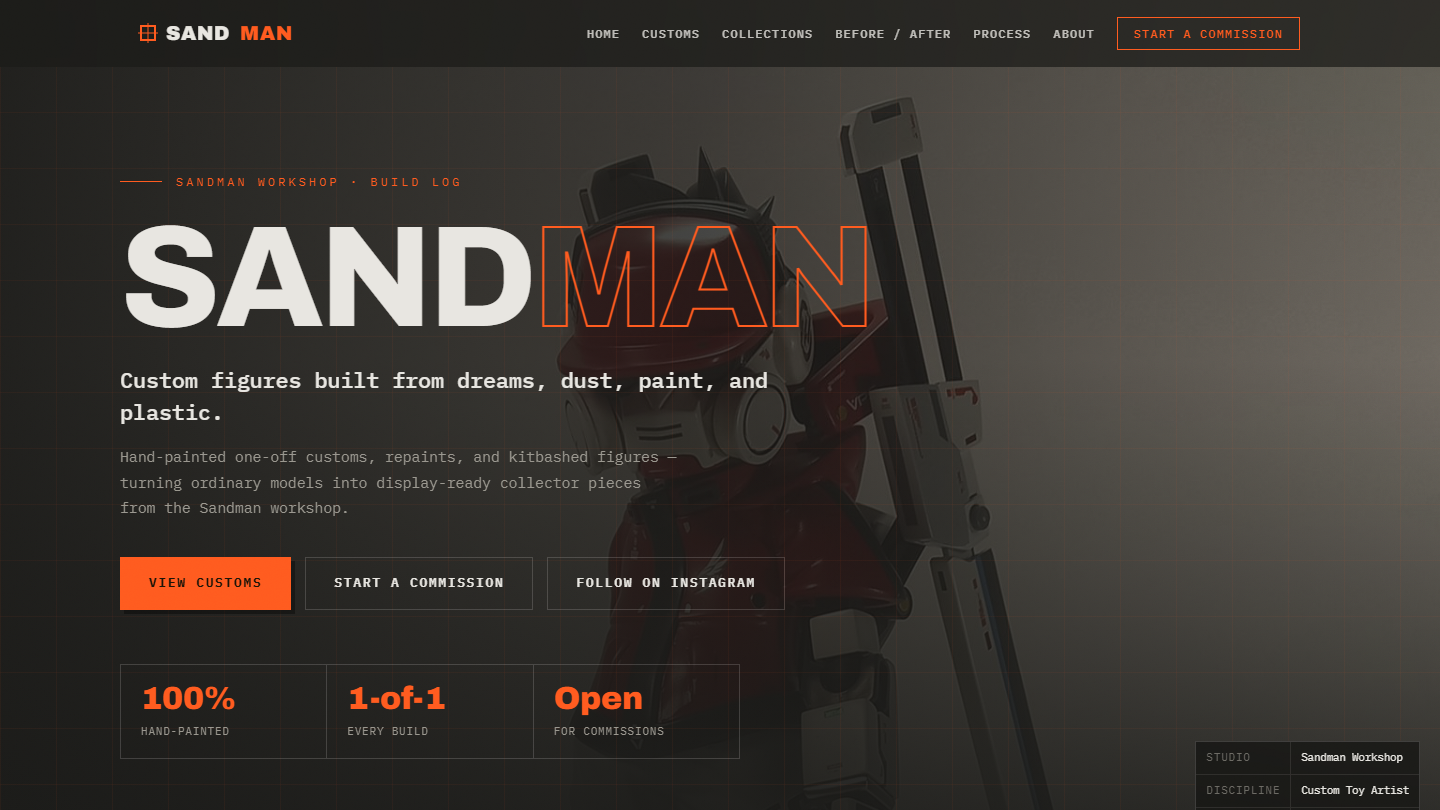
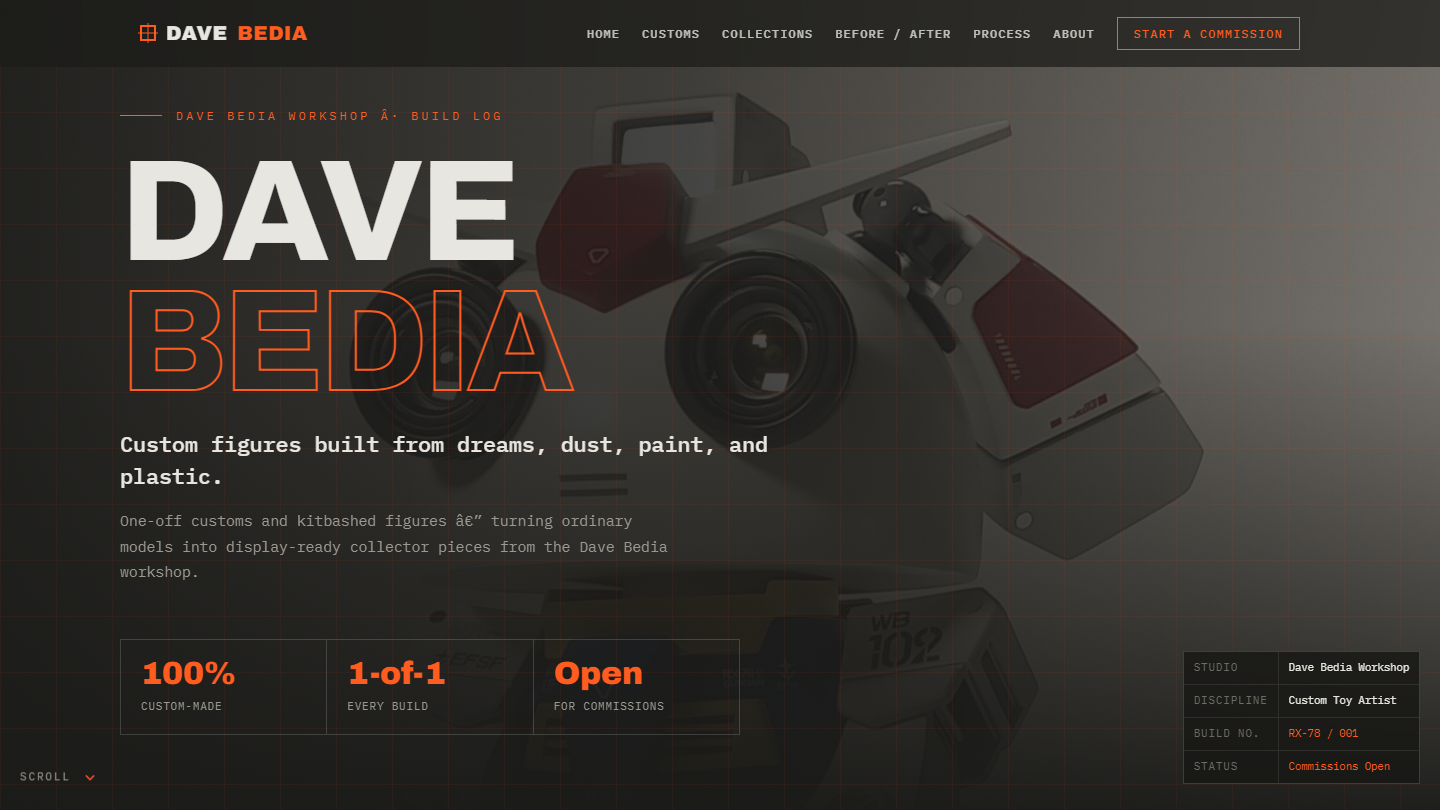
Update landing page: Dave Bedia branding + refresh v1/v3/v4 preview thumbnails
- Rebrand landing copy from Sandman to Dave Bedia (title, meta, kicker, intro)
- Regenerate preview screenshots for variations 1, 3, 4 to reflect current design
  (new hero image, no hero CTA buttons, no repaints wording)

diff --git a/index.html b/index.html
@@ -3,8 +3,8 @@
 <head>
   <meta charset="UTF-8">
   <meta name="viewport" content="width=device-width, initial-scale=1.0">
-  <title>SANDMAN — Website Design Variations</title>
-  <meta name="description" content="Four design directions for the Sandman custom toy artist portfolio. Pick your favorite.">
+  <title>DAVE BEDIA — Website Design Variations</title>
+  <meta name="description" content="Four design directions for the Dave Bedia custom toy artist portfolio. Pick your favorite.">
   <link rel="preconnect" href="https://fonts.googleapis.com">
   <link rel="preconnect" href="https://fonts.gstatic.com" crossorigin>
   <link href="https://fonts.googleapis.com/css2?family=Bebas+Neue&family=Inter:wght@400;500;600;700&family=Space+Grotesk:wght@500;600;700&display=swap" rel="stylesheet">
@@ -116,9 +116,9 @@
 </head>
 <body>
   <header>
-    <div class="kicker">Sandman · Custom Toy Artist</div>
+    <div class="kicker">Dave Bedia · Custom Toy Artist</div>
     <h1>Website <b>Design Variations</b></h1>
-    <p>Four directions for the Sandman portfolio — same content, four different moods. Open each live site and pick the one that fits the brand best.</p>
+    <p>Four directions for the Dave Bedia portfolio — same content, four different moods. Open each live site and pick the one that fits the brand best.</p>
   </header>
 
   <main class="wrap">
